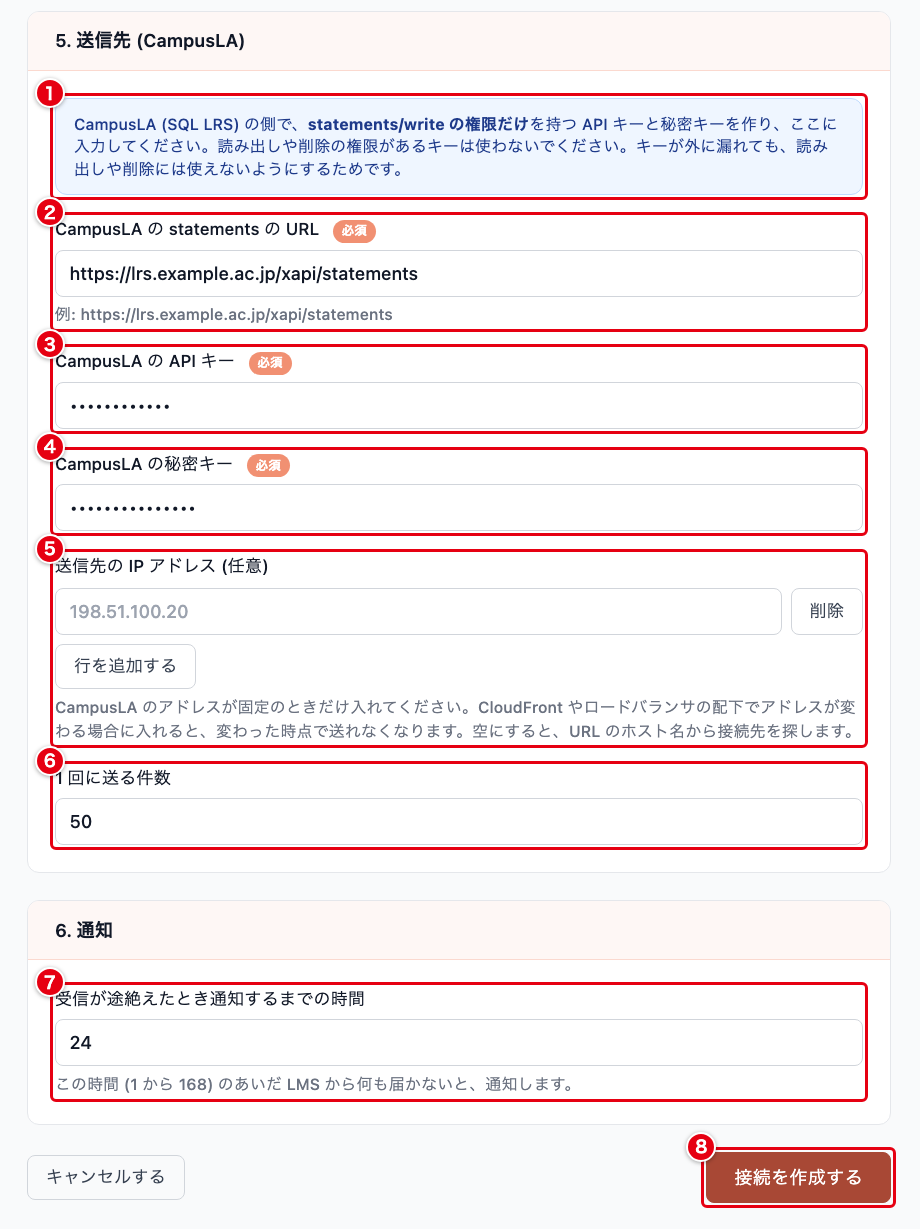
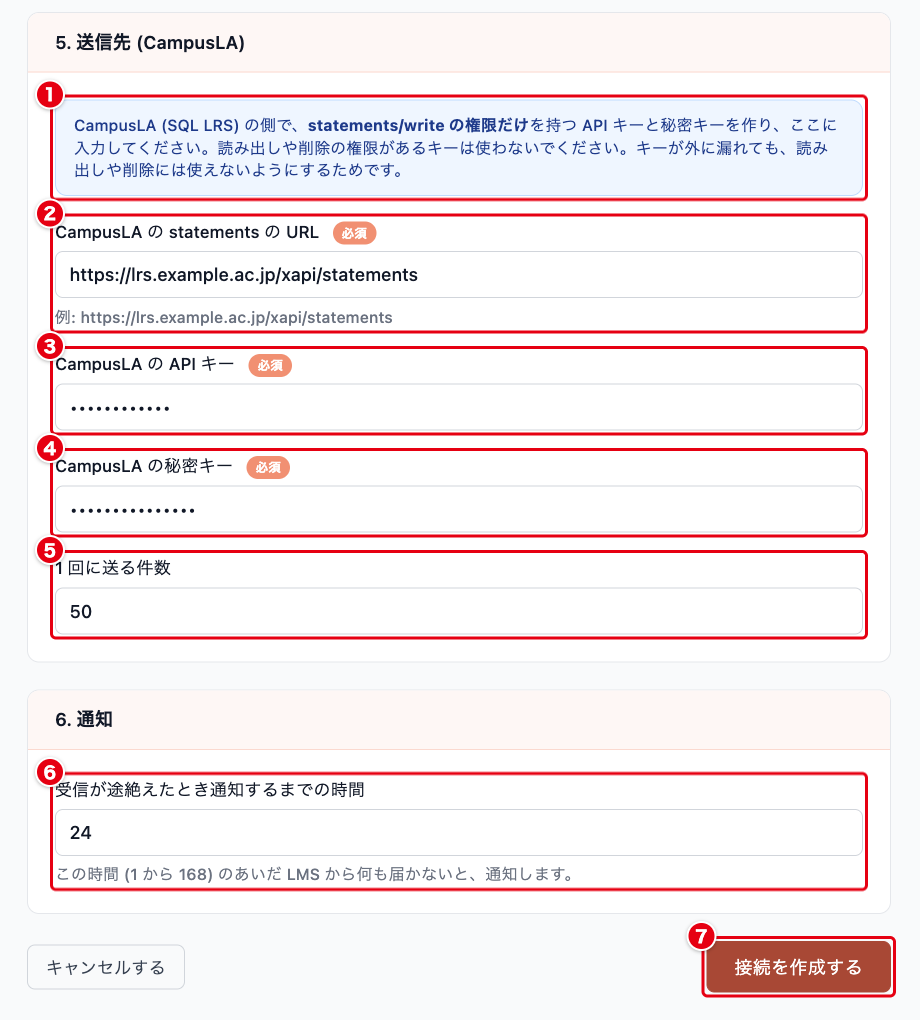
docs(lrs-relay): 送信先の IP アドレスの指定を外したことに合わせて直す
接続を追加する画面から「送信先の IP アドレス」の欄が無くなったので、
送信先と通知の図を撮り直し、表から該当の行を外して番号を振り直した。
反映に失敗したときの案内、API キーと秘密キーを入れ直す条件、
通知のメールですることの説明からも、送信先の IP アドレスを外した。

Changed region(s): [[0.0304, 0.0, 0.9739, 1.0], [0.0304, 0.9422, 0.1826, 0.9725]]

diff --git a/docs/lrs-relay/lrs-relay.md b/docs/lrs-relay/lrs-relay.md
@@ -140,10 +140,9 @@ LMS が、ホスト名の IP アドレスとは別のアドレスからデータ
 | ② | CampusLA の statements の URL | ✓ | CampusLA の statements の URL を、statements まで含めて入力します（例：https://lrs.example.ac.jp/xapi/statements）。https:// で始まる URL だけを入力できます |
 | ③ | CampusLA の API キー | ✓ | CampusLA で作った API キーです。入力した値は画面に表示されません |
 | ④ | CampusLA の秘密キー | ✓ | CampusLA で作った秘密キーです。入力した値は画面に表示されません |
-| ⑤ | 送信先の IP アドレス | | CampusLA の IP アドレスが固定のときだけ入力します。1 行に 1 つ、範囲ではなく 1 つのアドレスを入力します。50 件まで登録できます。空にすると、URL のホスト名から接続先を探します |
-| ⑥ | 1 回に送る件数 | | CampusLA へ 1 回にまとめて送る件数です。1 から 500 まで入力できます。初期値は 50 です |
-| ⑦ | 受信が途絶えたとき通知するまでの時間 | | この時間のあいだ LMS から何も届かないと、通知先にお知らせのメールを送ります。1 から 168 まで、時間の単位で入力します。初期値は 24 です |
-| ⑧ | 接続を作成する | | 接続を作成し、接続の詳細の画面に移動します |
+| ⑤ | 1 回に送る件数 | | CampusLA へ 1 回にまとめて送る件数です。1 から 500 まで入力できます。初期値は 50 です |
+| ⑥ | 受信が途絶えたとき通知するまでの時間 | | この時間のあいだ LMS から何も届かないと、通知先にお知らせのメールを送ります。1 から 168 まで、時間の単位で入力します。初期値は 24 です |
+| ⑦ | 接続を作成する | | 接続を作成し、接続の詳細の画面に移動します |
 
 ②の URL は、次の場合は保存できません。
 
@@ -151,12 +150,7 @@ LMS が、ホスト名の IP アドレスとは別のアドレスからデータ
 - 社内用や予約済みの IP アドレスを指す場合
 - ホスト名から IP アドレスを引けない場合
 
-⑤の IP アドレスを入力すると、URL のホスト名で IP アドレスを引かずに、入力したアドレスへつなぎます。
-証明書は URL のホスト名で確かめます。
-CloudFront やロードバランサの配下で CampusLA のアドレスが変わる場合に入力すると、アドレスが変わった時点で送れなくなります。
-社内用や予約済みのアドレスと、Cloudflare のアドレスは入力できません。
-
-⑧を押すと「接続を作成しました。Cloudflare への反映を始めています。」と表示されます。
+⑦を押すと「接続を作成しました。Cloudflare への反映を始めています。」と表示されます。
 **作ったばかりの接続は「受信: 停止中」です。**
 LMS からのデータは、API キーを発行して受信を始めるまで受け付けません。
 
@@ -294,7 +288,7 @@ LMS からデータが届き始めたら、メールアドレスの作り方が 
 | --- | --- |
 | 転送の仕組みの準備がまだ済んでいません。運用担当者に連絡してください。 | 運用担当者に連絡してください |
 | Cloudflare 側との連携の設定が合っていません。運用担当者に連絡してください。 | 運用担当者に連絡してください |
-| 送信先の URL か固定する IP アドレスを Cloudflare 側が受け付けませんでした。「設定を編集する」から見直して保存し直してください。 | 送信先の URL と送信先の IP アドレスを見直して、保存し直してください |
+| 送信先の URL を Cloudflare 側が受け付けませんでした。「設定を編集する」から見直して保存し直してください。 | 送信先の URL を見直して、保存し直してください |
 | 設定の内容を Cloudflare 側が受け付けませんでした。「設定を編集する」から見直して保存し直してください。 | 設定を見直して、保存し直してください |
 
 ### 状況の欄
@@ -480,7 +474,7 @@ LMS がどの IP アドレスから送ってくるかが分かったら、その
 
 CampusLA の API キーと秘密キーの欄は、接続の編集画面では空欄で表示されます。
 空欄のまま保存すると、今のキーがそのまま使われます。
-**送信先の URL のホスト名やポート、または送信先の IP アドレスを変えるときは、API キーと秘密キーも入れ直す必要があります。**
+**送信先の URL のホスト名やポートを変えるときは、API キーと秘密キーも入れ直す必要があります。**
 入れ直さずに保存すると「送信先を変える場合は、API キーと秘密キーも入れ直してください。」と表示されます。
 今のキーが、新しい送信先へ送られないようにするためです。
 
